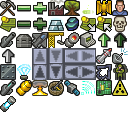
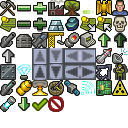
Updated ShipDesignView.
Added new colors Deep Space Purple and dark version.
Added three new icons: Down arrow, OK and delete

Changed region(s): [[0.125, 0.75, 0.5, 0.875]]

diff --git a/src/org/openRealmOfStars/game/States/ShipDesignView.java b/src/org/openRealmOfStars/game/States/ShipDesignView.java
@@ -206,24 +206,27 @@ public class ShipDesignView extends BlackPanel {
     invis.setLayout(new BoxLayout(invis, BoxLayout.Y_AXIS));
     componentSelect = new JComboBox<>(components.toArray(new ShipComponent[components.size()]));
     componentSelect.setActionCommand(GameCommands.COMMAND_SHIPDESIGN_COMPONENTSELECTED);
-    componentSelect.setBackground(GuiStatics.COLOR_COOL_SPACE_BLUE_DARK);
+    componentSelect.setBackground(GuiStatics.COLOR_DEEP_SPACE_PURPLE_DARK);
     componentSelect.setForeground(GuiStatics.COLOR_COOL_SPACE_BLUE);
     componentSelect.setBorder(new SimpleBorder());
     componentSelect.setFont(GuiStatics.getFontCubellan());
     componentSelect.setRenderer(new ShipComponentListRenderer());
     componentSelect.addActionListener(listener);
     invis.add(componentSelect);
+    invis.add(Box.createRigidArea(new Dimension(5,5)));
     componentInfoText = new InfoTextArea(10, 30);
     componentInfoText.setEditable(false);
     componentInfoText.setFont(GuiStatics.getFontCubellanSmaller());
     scroll = new JScrollPane(componentInfoText);
-    componentPanel.add(Box.createRigidArea(new Dimension(25,25)));
-    componentPanel.add(scroll,BorderLayout.CENTER);
-    invis.add(componentInfoText);
+    invis.add(scroll);
+    invis.add(Box.createRigidArea(new Dimension(5,5)));
     btn = new SpaceButton("Add component", GameCommands.COMMAND_SHIPDESIGN_COMPONENTADDED);
     btn.addActionListener(listener);
+    btn.setSpaceIcon(Icons.getIconByName(Icons.ICON_OK));
     invis.add(btn);
     componentPanel.add(invis);
+    componentPanel.add(Box.createRigidArea(new Dimension(5,5)));
+
 
     invis = new InvisiblePanel(componentPanel);
     invis.setLayout(new BoxLayout(invis, BoxLayout.Y_AXIS));
@@ -233,15 +236,23 @@ public class ShipDesignView extends BlackPanel {
     componentList.setSelectionMode(ListSelectionModel.SINGLE_SELECTION);
     scroll = new JScrollPane(componentList);
     invis.add(scroll);
+    invis.add(Box.createRigidArea(new Dimension(5,5)));
     btn = new SpaceButton("Higher priority", GameCommands.COMMAND_SHIPDESIGN_COMPONENT_PRIORITYHI);
     btn.addActionListener(listener);
     btn.setSpaceIcon(Icons.getIconByName(Icons.ICON_ARROWUP));
     invis.add(btn);
+    invis.add(Box.createRigidArea(new Dimension(5,5)));
     btn = new SpaceButton("Lower priority", GameCommands.COMMAND_SHIPDESIGN_COMPONENT_PRIORITYLO);
     btn.addActionListener(listener);
-    btn.setSpaceIcon(Icons.getIconByName(Icons.ICON_ARROWUP));
+    btn.setSpaceIcon(Icons.getIconByName(Icons.ICON_ARROWDOWN));
+    invis.add(btn);
+    invis.add(Box.createRigidArea(new Dimension(5,5)));
+    btn = new SpaceButton("Remove component", GameCommands.COMMAND_SHIPDESIGN_COMPONENTREMOVED);
+    btn.addActionListener(listener);
+    btn.setSpaceIcon(Icons.getIconByName(Icons.ICON_DELETE));
     invis.add(btn);
     componentPanel.add(invis);
+    componentPanel.add(Box.createRigidArea(new Dimension(25,5)));
 
     
     base.add(componentPanel,BorderLayout.CENTER);
@@ -311,17 +322,29 @@ public class ShipDesignView extends BlackPanel {
         updatePanels();
       }
     }
+    if (arg0.getActionCommand().equals(GameCommands.COMMAND_SHIPDESIGN_COMPONENTREMOVED) 
+        && componentList.getSelectedValue() != null) {
+      int index = componentList.getSelectedIndex();
+      design.removeComponent(index);
+      updatePanels();
+    }
     if (arg0.getActionCommand().equals(GameCommands.COMMAND_SHIPDESIGN_COMPONENT_PRIORITYHI) 
         && componentList.getSelectedValue() != null) {
       int index = componentList.getSelectedIndex();
-      design.changePriority(index, true);
+      index = design.changePriority(index, true);
+      int[] indices = new int[1];
+      indices[0] = index;
       updatePanels();
+      componentList.setSelectedIndices(indices);
     }
     if (arg0.getActionCommand().equals(GameCommands.COMMAND_SHIPDESIGN_COMPONENT_PRIORITYLO) 
         && componentList.getSelectedValue() != null) {
       int index = componentList.getSelectedIndex();
-      design.changePriority(index, false);
+      index = design.changePriority(index, false);
+      int[] indices = new int[1];
+      indices[0] = index;
       updatePanels();
+      componentList.setSelectedIndices(indices);
     }
     
   }

diff --git a/src/org/openRealmOfStars/player/ship/ShipDesign.java b/src/org/openRealmOfStars/player/ship/ShipDesign.java
@@ -82,6 +82,14 @@ public class ShipDesign {
     components.add(comp);
   }
   
+  /**
+   * Remove component from the list
+   * @param index Component's index to remove
+   */
+  public void removeComponent(int index) {
+    components.remove(index);
+  }
+  
 
   public String getName() {
     return name;
@@ -249,8 +257,9 @@ public class ShipDesign {
    * Change component priority order
    * @param index Index which to change
    * @param higher true for higher priority and false for lower
+   * @return int new changed index, if change happened
    */
-  public void changePriority(int index, boolean higher) {
+  public int changePriority(int index, boolean higher) {
     if (index >= 0 && index < getNumberOfComponents()) {
       ShipComponent result[] = getComponentList();
       ShipComponent temp = result[index];
@@ -262,6 +271,7 @@ public class ShipDesign {
         for (int i = 0;i<result.length;i++) {
           components.add(result[i]);
         }
+        return target;
       }
       if (!higher && index < result.length-1) {
         int target = index +1;
@@ -271,8 +281,10 @@ public class ShipDesign {
         for (int i = 0;i<result.length;i++) {
           components.add(result[i]);
         }
+        return target;
       }
     }
+    return index;
   }
   
   @Override

diff --git a/src/org/openRealmOfStars/gui/icons/Icons.java b/src/org/openRealmOfStars/gui/icons/Icons.java
@@ -81,6 +81,9 @@ public class Icons {
   public static final String ICON_CIRCUIT_BOARD = "CircuitBoard";
   public static final String ICON_RADIATION = "Radiation";
   public static final String ICON_POWERSOURCE = "PowerSource";
+  public static final String ICON_ARROWDOWN = "ArrowDown";
+  public static final String ICON_OK = "IconOk";
+  public static final String ICON_DELETE = "IconDelete";
   
   /**
    * List of Icon
@@ -250,6 +253,12 @@ public class Icons {
     icon = new Icon16x16(image, 7, 5,ICON_RADIATION);
     addIcon(icon);
     icon = new Icon16x16(image, 0, 6,ICON_POWERSOURCE);
+    addIcon(icon);
+    icon = new Icon16x16(image, 1, 6,ICON_ARROWDOWN);
+    addIcon(icon);
+    icon = new Icon16x16(image, 2, 6,ICON_OK);
+    addIcon(icon);
+    icon = new Icon16x16(image, 3, 6,ICON_DELETE);
     addIcon(icon);
   }
   

diff --git a/src/org/openRealmOfStars/gui/ListRenderers/ShipComponentListRenderer.java b/src/org/openRealmOfStars/gui/ListRenderers/ShipComponentListRenderer.java
@@ -46,10 +46,10 @@ public class ShipComponentListRenderer implements ListCellRenderer<ShipComponent
     renderer.setText(value.getName()+" - "+value.getType().toString());
     if (isSelected) {
       renderer.setForeground(GuiStatics.COLOR_COOL_SPACE_BLUE);
-      renderer.setBackground(GuiStatics.COLOR_DEEP_SPACE_BLUE);
+      renderer.setBackground(GuiStatics.COLOR_DEEP_SPACE_PURPLE);
     } else {
       renderer.setForeground(GuiStatics.COLOR_COOL_SPACE_BLUE_DARK);
-      renderer.setBackground(GuiStatics.COLOR_SPACE_GREY_BLUE);
+      renderer.setBackground(GuiStatics.COLOR_DEEP_SPACE_PURPLE_DARK);
     }
     return renderer;
   }

diff --git a/src/org/openRealmOfStars/gui/ListRenderers/ShipHullListRenderer.java b/src/org/openRealmOfStars/gui/ListRenderers/ShipHullListRenderer.java
@@ -46,10 +46,10 @@ public class ShipHullListRenderer implements ListCellRenderer<ShipHull> {
     renderer.setText(value.getName()+" - "+value.getSize().toString());
     if (isSelected) {
       renderer.setForeground(GuiStatics.COLOR_COOL_SPACE_BLUE);
-      renderer.setBackground(GuiStatics.COLOR_DEEP_SPACE_BLUE);
+      renderer.setBackground(GuiStatics.COLOR_DEEP_SPACE_PURPLE);
     } else {
       renderer.setForeground(GuiStatics.COLOR_COOL_SPACE_BLUE_DARK);
-      renderer.setBackground(GuiStatics.COLOR_SPACE_GREY_BLUE);
+      renderer.setBackground(GuiStatics.COLOR_DEEP_SPACE_PURPLE_DARK);
     }
     return renderer;
   }

diff --git a/src/org/openRealmOfStars/gui/ListRenderers/ProductionListRenderer.java b/src/org/openRealmOfStars/gui/ListRenderers/ProductionListRenderer.java
@@ -46,10 +46,10 @@ public class ProductionListRenderer implements ListCellRenderer<Construction> {
     renderer.setIcon(value.getIcon().getAsIcon());
     if (isSelected) {
       renderer.setForeground(GuiStatics.COLOR_COOL_SPACE_BLUE);
-      renderer.setBackground(GuiStatics.COLOR_DEEP_SPACE_BLUE);
+      renderer.setBackground(GuiStatics.COLOR_DEEP_SPACE_PURPLE);
     } else {
       renderer.setForeground(GuiStatics.COLOR_COOL_SPACE_BLUE_DARK);
-      renderer.setBackground(GuiStatics.COLOR_SPACE_GREY_BLUE);
+      renderer.setBackground(GuiStatics.COLOR_DEEP_SPACE_PURPLE_DARK);
     }
     return renderer;
   }

diff --git a/src/org/openRealmOfStars/gui/GuiStatics.java b/src/org/openRealmOfStars/gui/GuiStatics.java
@@ -227,6 +227,16 @@ public class GuiStatics {
   public final static Color COLOR_COOL_SPACE_BLUE_DARK = new Color(25,120,193);
 
   /**
+   * Deep space purple dark
+   */
+  public final static Color COLOR_DEEP_SPACE_PURPLE_DARK = new Color(25,9,61);
+
+  /**
+   * Deep space purple
+   */
+  public final static Color COLOR_DEEP_SPACE_PURPLE = new Color(47,27,92);
+
+  /**
    * Cool space blue darker
    */
   public final static Color COLOR_COOL_SPACE_BLUE_DARKER = new Color(20,110,180);
